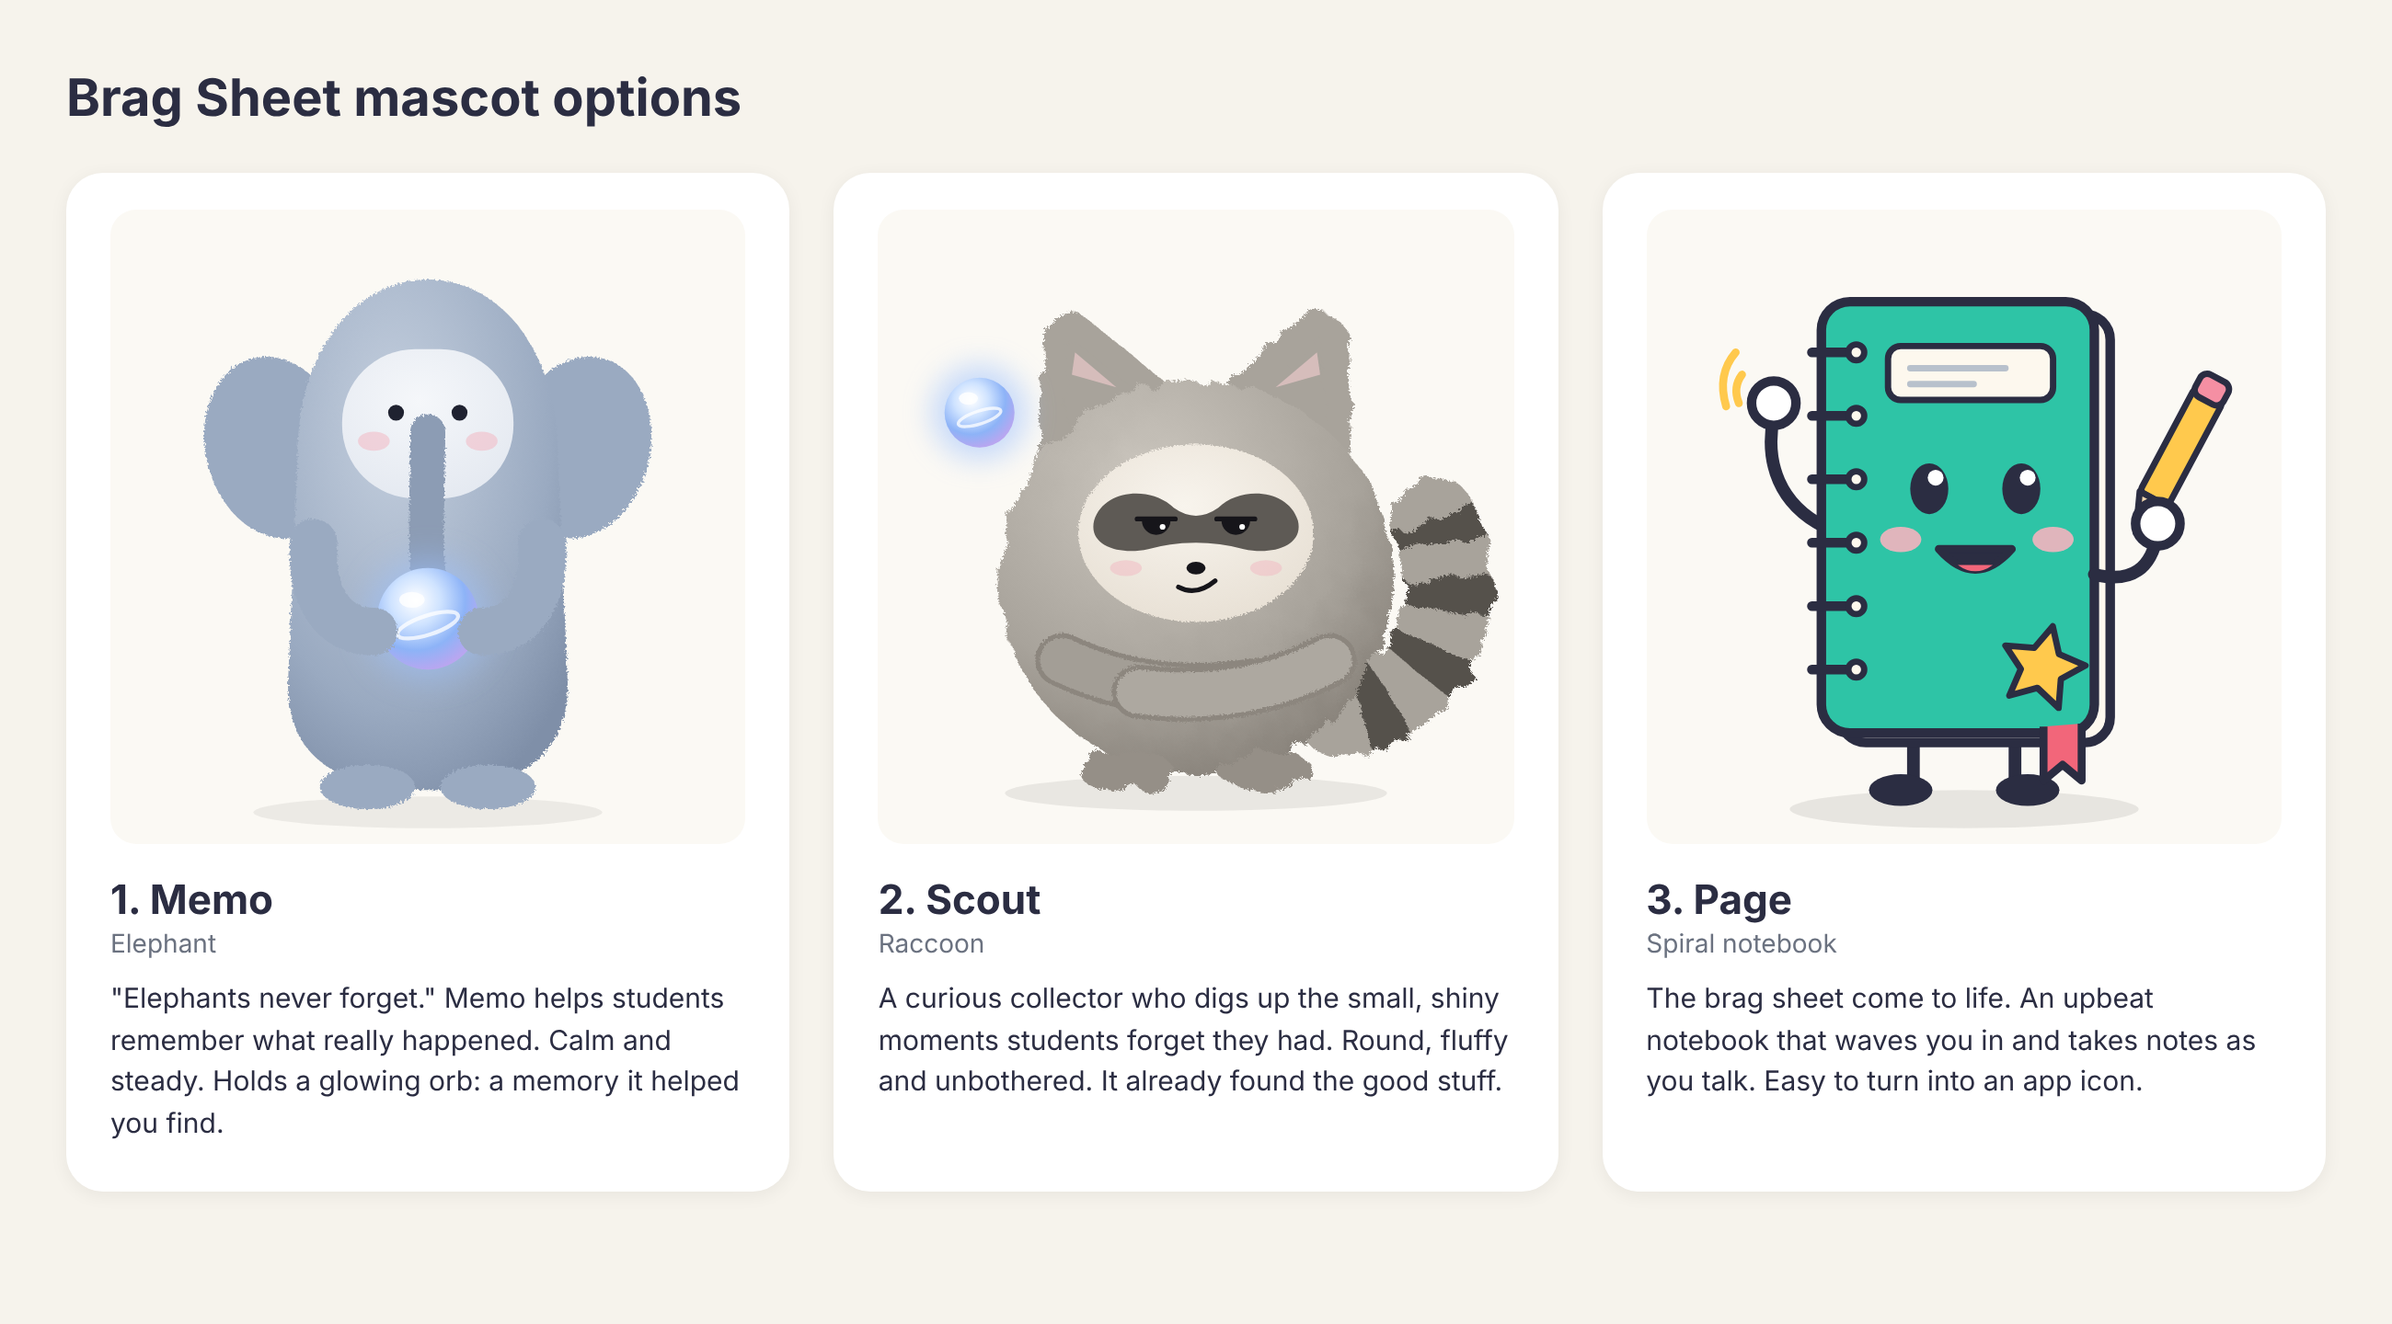
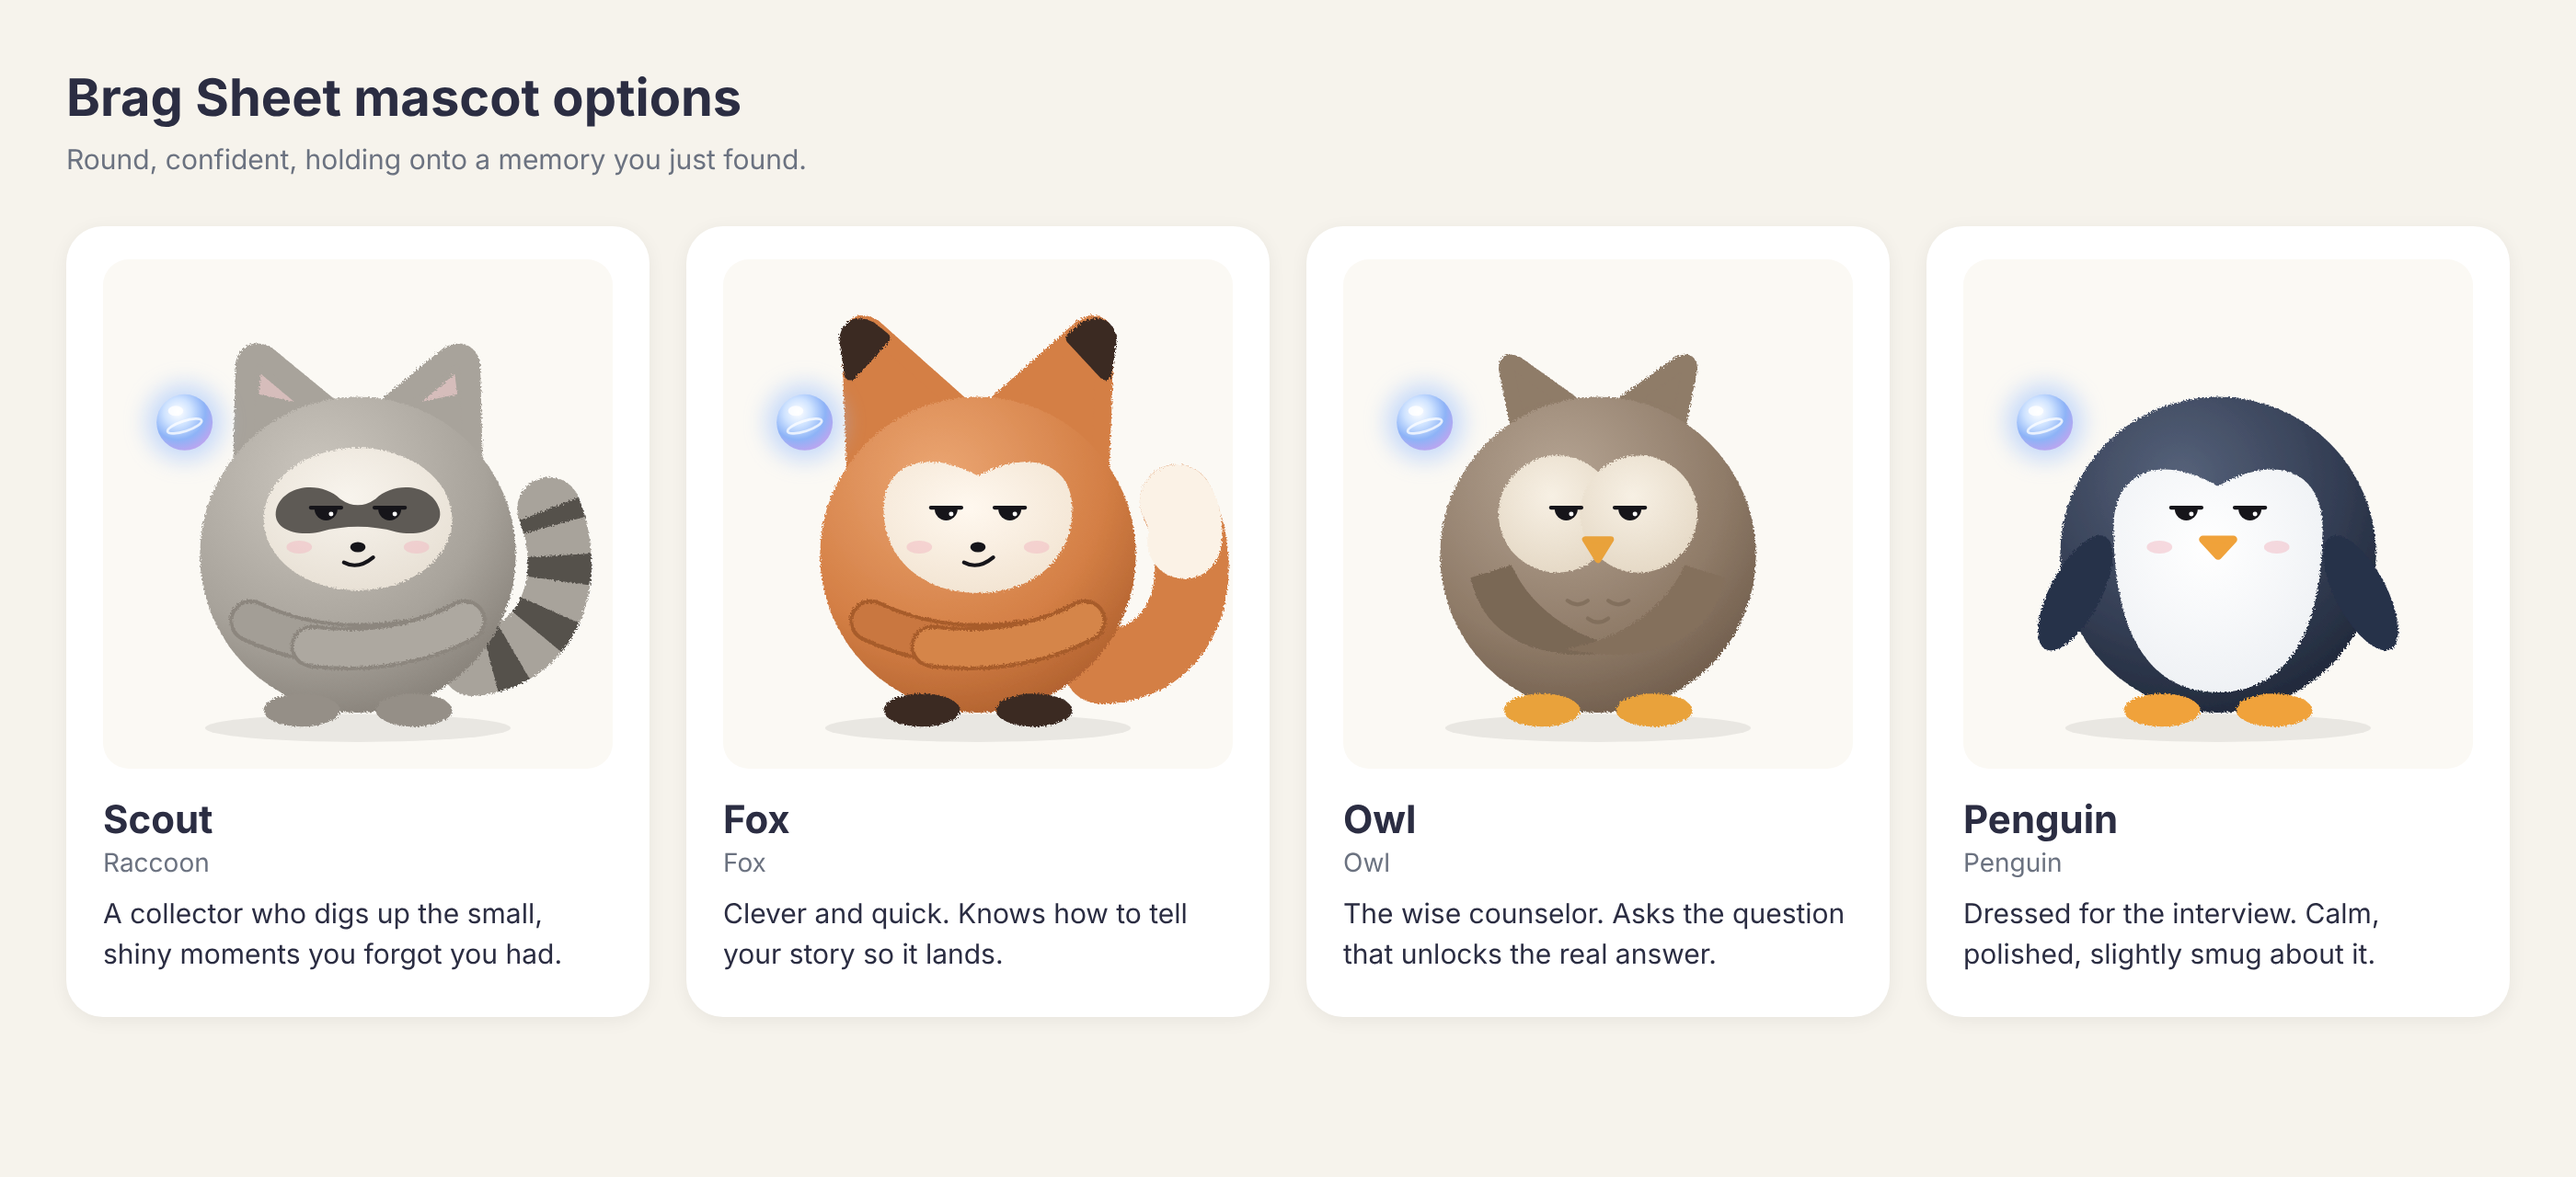
Unfluff Scout; add round fox, owl and penguin mascot options
All four share one style, built by mascots/generate.py.

Claude-Session: https://claude.ai/code/session_01RY6asvPZchAGyFrqusiNyK

diff --git a/mascots/index.html b/mascots/index.html
@@ -1,19 +1,22 @@
 <!DOCTYPE html><html><head><meta charset="utf-8"><title>Mascot options</title>
 <style>
 body{margin:0;font-family:system-ui,-apple-system,sans-serif;background:#F6F3EC;color:#2B2D42;padding:36px}
-h1{margin:0 0 24px;font-size:28px}
-.grid{display:grid;grid-template-columns:repeat(3,1fr);gap:24px}
-.card{background:#fff;border-radius:20px;padding:20px 24px 26px;box-shadow:0 2px 10px rgba(0,0,0,.06)}
+h1{margin:0 0 6px;font-size:28px} .sub{margin:0 0 24px;color:#6b7280}
+.grid{display:grid;grid-template-columns:repeat(4,1fr);gap:20px}
+.card{background:#fff;border-radius:20px;padding:18px 20px 22px;box-shadow:0 2px 10px rgba(0,0,0,.06)}
 .card img{width:100%;display:block;background:#FBF9F4;border-radius:14px}
-h2{margin:18px 0 2px;font-size:22px} .kind{color:#6b7280;font-size:14px;margin-bottom:10px}
+h2{margin:16px 0 2px;font-size:21px} .kind{color:#6b7280;font-size:14px;margin-bottom:8px}
 p{margin:0;line-height:1.5;font-size:15px}
 </style></head><body>
 <h1>Brag Sheet mascot options</h1>
+<p class="sub">Round, confident, holding onto a memory you just found.</p>
 <div class="grid">
-<div class="card"><img src="memo-elephant.svg"><h2>1. Memo</h2><div class="kind">Elephant</div>
-<p>"Elephants never forget." Memo helps students remember what really happened. Calm and steady. Holds a glowing orb: a memory it helped you find.</p></div>
-<div class="card"><img src="scout-raccoon.svg"><h2>2. Scout</h2><div class="kind">Raccoon</div>
-<p>A curious collector who digs up the small, shiny moments students forget they had. Round, fluffy and unbothered. It already found the good stuff.</p></div>
-<div class="card"><img src="page-notebook.svg"><h2>3. Page</h2><div class="kind">Spiral notebook</div>
-<p>The brag sheet come to life. An upbeat notebook that waves you in and takes notes as you talk. Easy to turn into an app icon.</p></div>
+<div class="card"><img src="scout-raccoon.svg"><h2>Scout</h2><div class="kind">Raccoon</div>
+<p>A collector who digs up the small, shiny moments you forgot you had.</p></div>
+<div class="card"><img src="fox.svg"><h2>Fox</h2><div class="kind">Fox</div>
+<p>Clever and quick. Knows how to tell your story so it lands.</p></div>
+<div class="card"><img src="owl.svg"><h2>Owl</h2><div class="kind">Owl</div>
+<p>The wise counselor. Asks the question that unlocks the real answer.</p></div>
+<div class="card"><img src="penguin.svg"><h2>Penguin</h2><div class="kind">Penguin</div>
+<p>Dressed for the interview. Calm, polished, slightly smug about it.</p></div>
 </div></body></html>

diff --git a/mascots/generate.py b/mascots/generate.py
@@ -1,0 +1,113 @@
+# Round, confident mascots sharing one style: ball body, face window, half-lidded eyes, crossed arms, memory orb.
+def defs(light, base, dark, face_l, face_d):
+    return f'''  <defs>
+    <filter id="fuzz" filterUnits="userSpaceOnUse" x="0" y="0" width="400" height="400">
+      <feTurbulence type="fractalNoise" baseFrequency="0.7" numOctaves="2" seed="3"/>
+      <feDisplacementMap in="SourceGraphic" scale="3.5"/>
+    </filter>
+    <filter id="glow" filterUnits="userSpaceOnUse" x="0" y="0" width="400" height="400"><feGaussianBlur stdDeviation="9"/></filter>
+    <radialGradient id="shade" cx="38%" cy="26%" r="80%">
+      <stop offset="0" stop-color="{light}"/><stop offset=".65" stop-color="{base}"/><stop offset="1" stop-color="{dark}"/>
+    </radialGradient>
+    <radialGradient id="face" cx="45%" cy="35%" r="75%">
+      <stop offset="0" stop-color="{face_l}"/><stop offset="1" stop-color="{face_d}"/>
+    </radialGradient>
+    <radialGradient id="orb" cx="38%" cy="32%" r="70%">
+      <stop offset="0" stop-color="#FFFFFF"/><stop offset=".35" stop-color="#CFE3FF"/>
+      <stop offset=".7" stop-color="#8DB3F7"/><stop offset="1" stop-color="#B9A6F0"/>
+    </radialGradient>
+  </defs>
+'''
+EYES = '''  <path d="M166 196h18a9 9 0 0 1-18 0z" fill="#16151A"/>
+  <path d="M216 196h18a9 9 0 0 1-18 0z" fill="#16151A"/>
+  <path d="M163 195h24M213 195h24" stroke="#16151A" stroke-width="3" stroke-linecap="round"/>
+  <circle cx="179" cy="200" r="1.8" fill="#fff"/><circle cx="229" cy="200" r="1.8" fill="#fff"/>
+'''
+NOSE_SMIRK = '''  <ellipse cx="200" cy="226" rx="6" ry="4" fill="#16151A"/>
+  <path d="M189 238q11 6 23-4" stroke="#16151A" stroke-width="3" fill="none" stroke-linecap="round"/>
+'''
+BLUSH = '''  <ellipse cx="154" cy="226" rx="10" ry="5" fill="#F2B8C2" opacity=".5"/>
+  <ellipse cx="246" cy="226" rx="10" ry="5" fill="#F2B8C2" opacity=".5"/>
+'''
+def arms(edge, a, b):
+    return f'''  <g filter="url(#fuzz)">
+    <path d="M116 284Q170 310 236 300" stroke="{edge}" stroke-width="34" fill="none" stroke-linecap="round"/>
+    <path d="M116 284Q170 310 236 300" stroke="{a}" stroke-width="28" fill="none" stroke-linecap="round"/>
+    <path d="M284 284Q230 312 164 304" stroke="{edge}" stroke-width="34" fill="none" stroke-linecap="round"/>
+    <path d="M284 284Q230 312 164 304" stroke="{b}" stroke-width="28" fill="none" stroke-linecap="round"/>
+  </g>
+'''
+ORB = '''  <circle cx="64" cy="128" r="30" fill="#9CC1FF" opacity=".55" filter="url(#glow)"/>
+  <circle cx="64" cy="128" r="22" fill="url(#orb)"/>
+  <ellipse cx="64" cy="131" rx="14" ry="4" fill="none" stroke="#fff" stroke-width="2" opacity=".75" transform="rotate(-18 64 131)"/>
+  <ellipse cx="57" cy="119" rx="6" ry="4" fill="#fff" opacity=".8"/>
+'''
+def svg(c, behind, face, features, arms_svg, feet):
+    return f'''<svg xmlns="http://www.w3.org/2000/svg" viewBox="0 0 400 400" width="400" height="400">
+{defs(c['light'],c['base'],c['dark'],c['face_l'],c['face_d'])}  <ellipse cx="200" cy="368" rx="120" ry="11" fill="#000" opacity=".07"/>
+  <g filter="url(#fuzz)">
+{behind}    <circle cx="200" cy="232" r="124" fill="url(#shade)"/>
+    <ellipse cx="156" cy="354" rx="30" ry="13" fill="{feet}"/>
+    <ellipse cx="244" cy="354" rx="30" ry="13" fill="{feet}"/>
+  </g>
+{face}{features}{arms_svg}{ORB}</svg>
+'''
+FACE = '  <ellipse cx="200" cy="204" rx="74" ry="56" fill="url(#face)" filter="url(#fuzz)"/>\n'
+
+# Raccoon
+c=dict(light='#CBC6BE',base='#A8A39B',dark='#857F77',face_l='#F8F4ED',face_d='#E6DED2')
+behind='''    <path d="M290 318C350 312 372 252 350 196" stroke="#A8A39B" stroke-width="50" fill="none" stroke-linecap="round"/>
+    <path d="M290 318C350 312 372 252 350 196" stroke="#55514C" stroke-width="50" fill="none" stroke-dasharray="20 24" stroke-dashoffset="-14"/>
+    <path d="M110 160L112 82Q116 70 128 76L184 122Z" fill="#A8A39B" stroke="#A8A39B" stroke-width="16" stroke-linejoin="round"/>
+    <path d="M290 160L288 82Q284 70 272 76L216 122Z" fill="#A8A39B" stroke="#A8A39B" stroke-width="16" stroke-linejoin="round"/>
+    <path d="M122 106L124 90L150 112Z" fill="#E9C7C9" opacity=".7"/>
+    <path d="M278 106L276 90L250 112Z" fill="#E9C7C9" opacity=".7"/>
+'''
+mask='  <path d="M136 196C142 176 172 174 186 188Q200 198 214 188C228 174 258 176 264 196C268 212 248 218 230 214Q200 206 170 214C152 218 132 212 136 196Z" fill="#5E5A55"/>\n'
+open('scout-raccoon.svg','w').write(svg(c,behind,FACE,mask+EYES+NOSE_SMIRK+BLUSH,arms('#8C867E','#A39E96','#ADA8A0'),'#958F87'))
+
+# Fox
+c=dict(light='#EBA673',base='#D47F45',dark='#AE5F2D',face_l='#FFF8EF',face_d='#F1E2CF')
+behind='''    <path d="M296 320C362 320 384 250 356 190" stroke="#D47F45" stroke-width="58" fill="none" stroke-linecap="round"/>
+    <path d="M362 222C364 210 362 200 356 190" stroke="#FBF2E6" stroke-width="58" fill="none" stroke-linecap="round"/>
+    <path d="M104 170L100 60Q104 46 118 54L190 118Z" fill="#D47F45" stroke="#D47F45" stroke-width="14" stroke-linejoin="round"/>
+    <path d="M296 170L300 60Q296 46 282 54L210 118Z" fill="#D47F45" stroke="#D47F45" stroke-width="14" stroke-linejoin="round"/>
+    <path d="M96 62Q100 46 116 54L126 62L100 90Z" fill="#3B2A24" stroke="#3B2A24" stroke-width="10" stroke-linejoin="round"/>
+    <path d="M304 62Q300 46 284 54L274 62L300 90Z" fill="#3B2A24" stroke="#3B2A24" stroke-width="10" stroke-linejoin="round"/>
+'''
+face='  <path d="M126 196C126 160 160 148 200 170C240 148 274 160 274 196C274 238 240 262 200 262C160 262 126 238 126 196Z" fill="url(#face)" filter="url(#fuzz)"/>\n'
+open('fox.svg','w').write(svg(c,behind,face,EYES+NOSE_SMIRK+BLUSH,arms('#A75B2B','#C9773F','#D58548'),'#3B2A24'))
+
+# Owl
+c=dict(light='#B5A493',base='#8F7B68',dark='#6E5B4A',face_l='#F7F0E4',face_d='#E3D6C2')
+behind='''    <path d="M136 126L128 86Q128 78 136 82L178 112Z" fill="#8F7B68" stroke="#8F7B68" stroke-width="12" stroke-linejoin="round"/>
+    <path d="M264 126L272 86Q272 78 264 82L222 112Z" fill="#8F7B68" stroke="#8F7B68" stroke-width="12" stroke-linejoin="round"/>
+'''
+face='''  <circle cx="168" cy="200" r="46" fill="url(#face)" filter="url(#fuzz)"/>
+  <circle cx="232" cy="200" r="46" fill="url(#face)" filter="url(#fuzz)"/>
+'''
+owl_eyes=EYES.replace('h18a9','h18a9').replace('M166 196','M166 196').replace('fill="#16151A"/>','fill="#16151A"/>',)
+owl_feat=EYES+'''  <path d="M190 220h20l-10 16z" fill="#E9A23B" stroke="#E9A23B" stroke-width="5" stroke-linejoin="round"/>
+  <g fill="none" stroke="#7B6856" stroke-width="3" stroke-linecap="round" opacity=".7">
+    <path d="M176 268q8 6 16 0M208 268q8 6 16 0M192 282q8 6 16 0"/>
+  </g>
+'''
+# folded wings crossed in front
+wings='''  <g filter="url(#fuzz)">
+    <path d="M100 250C110 300 160 320 226 306C190 300 150 280 132 240Z" fill="#7A6755"/>
+    <path d="M300 250C290 300 240 320 174 306C210 300 250 280 268 240Z" fill="#846F5C"/>
+  </g>
+'''
+open('owl.svg','w').write(svg(c,behind,face,owl_feat,wings,'#E9A23B'))
+
+# Penguin
+c=dict(light='#56627A',base='#323C52',dark='#1F2738',face_l='#FFFFFF',face_d='#ECEFF3')
+face='  <path d="M118 210C118 170 150 150 200 178C250 150 282 170 282 210C282 300 250 340 200 340C150 340 118 300 118 210Z" fill="url(#face)" filter="url(#fuzz)"/>\n'
+peng_feat=EYES+'''  <path d="M188 220h24l-12 13z" fill="#F0A23A" stroke="#F0A23A" stroke-width="6" stroke-linejoin="round"/>
+'''+BLUSH
+flips='''  <g filter="url(#fuzz)">
+    <ellipse cx="88" cy="262" rx="20" ry="50" fill="#26304A" transform="rotate(28 88 262)"/>
+    <ellipse cx="312" cy="262" rx="20" ry="50" fill="#26304A" transform="rotate(-28 312 262)"/>
+  </g>
+'''
+open('penguin.svg','w').write(svg(c,'',face,peng_feat,flips,'#F0A23A'))
